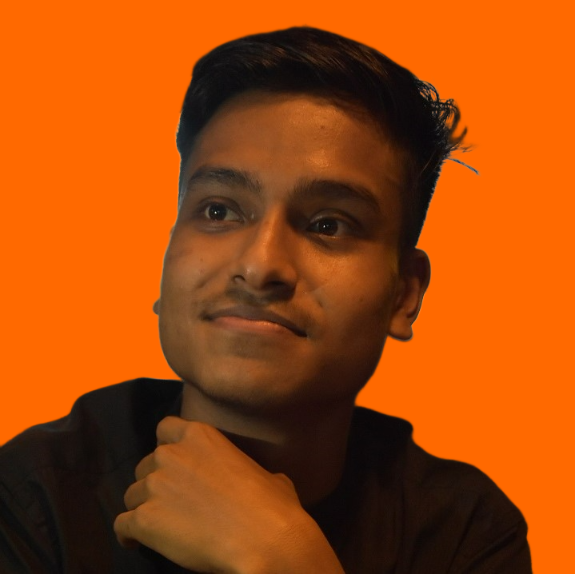
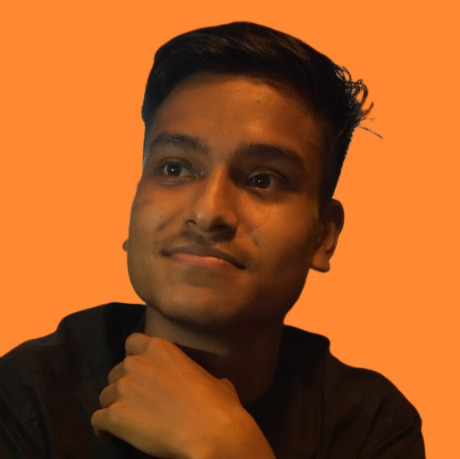
primary color changed

diff --git a/src/index.js b/src/index.js
@@ -1,86 +1,15 @@
-import React from "react";
-import ReactDOM from "react-dom/client";
+import App from "./App";
 import "./index.css";
-// import reportWebVitals from './reportWebVitals';
-import ErrorPage from "./Error";
-import Home from "./Home/Home";
-import About from "./About/About";
-import Education from "./Education/Education";
-import CodingProfiles from "./Coding Profiles/CodingProfiles";
-import Projects from "./Projects/Projects";
-import Contact from "./Contact/Contact";
-
-import {
-  createBrowserRouter,
-  RouterProvider
-} from "react-router-dom";
-import Layout from "./Layout/Layout";
-// import { AnimatePresence } from "framer-motion";
-
-const router = createBrowserRouter([
-  {
-    path: "/" || "/home",
-    element: (
-      <>
-        <Layout />
-        <Home />
-      </>
-    ),
-    errorElement: <ErrorPage />,
-  },
-
-  {
-    path: "/about",
-    element: (
-      <>
-        <Layout />
-        <About />
-      </>
-    ),
-  },
-  {
-    path: "/education",
-    element: (
-      <>
-        <Layout />
-        <Education />
-      </>
-    ),
-  },
-  {
-    path: "/projects",
-    element: (
-      <>
-        <Layout />
-        <Projects />
-      </>
-    ),
-  },
-  {
-    path: "/coding-profiles",
-    element: (
-      <>
-        <Layout />
-        <CodingProfiles />
-      </>
-    ),
-  },
-  {
-    path: "/contact",
-    element: (
-      <>
-        <Layout />
-        <Contact />
-      </>
-    ),
-  },
-]);
-
+import React from "react";
+import ReactDOM from "react-dom";
+import { BrowserRouter as Router } from "react-router-dom";
 
 const root = ReactDOM.createRoot(document.getElementById("root"));
 root.render(
   <React.StrictMode>
-    <RouterProvider router={router} />
+    <Router>
+      <App />
+    </Router>
   </React.StrictMode>
 );
 

diff --git a/src/App.js b/src/App.js
@@ -1,0 +1,76 @@
+// App.js
+import React from "react";
+import { Routes, Route } from "react-router-dom";
+import { AnimatePresence } from "framer-motion";
+import Layout from "./Layout/Layout";
+import Home from "./Home/Home";
+import About from "./About/About";
+import Education from "./Education/Education";
+import Projects from "./Projects/Projects";
+import CodingProfiles from "./Coding Profiles/CodingProfiles";
+import Contact from "./Contact/Contact";
+
+const App = () => {
+  return (
+    <Routes>
+      <Route
+        path="/"
+        element={
+          <>
+            <Layout />
+            <Home />
+          </>
+        }
+      />
+      <Route
+        path="/about"
+        element={
+          <>
+            <AnimatePresence>
+              <Layout />
+              <About />
+            </AnimatePresence>
+          </>
+        }
+      />
+      <Route
+        path="/education"
+        element={
+          <>
+            <Layout />
+            <Education />
+          </>
+        }
+      />
+      <Route
+        path="/projects"
+        element={
+          <>
+            <Layout />
+            <Projects />
+          </>
+        }
+      />
+      <Route
+        path="/coding-profiles"
+        element={
+          <>
+            <Layout />
+            <CodingProfiles />
+          </>
+        }
+      />
+      <Route
+        path="/contact"
+        element={
+          <>
+            <Layout />
+            <Contact />
+          </>
+        }
+      />
+    </Routes>
+  );
+};
+
+export default App;

diff --git a/src/Home/Home.css b/src/Home/Home.css
@@ -8,7 +8,7 @@
     border-bottom-left-radius: 60%;
     border: none;
     padding: -2px;
-    box-shadow: 5px 5px 22px 20px #ff6900;
+    box-shadow: 5px 5px 22px 20px var(--primary-color);
 }
 .main-container{
     padding-bottom: 4rem;
@@ -31,7 +31,7 @@
 }
 span{
     font-size: 3rem;
-    color: #ff6900;
+    color: var(--primary-color);
 }
 .primary-btn, .secondary-btn{
     height: 2.5rem;
@@ -44,15 +44,15 @@ span{
     padding: 0 0.8rem;
 }
 .primary-btn{
-    background-color: #ff6900;
+    background-color: var(--primary-color);
     color: white;
     border: none;
     /* border-color: #FFF; */
     
 }
 .secondary-btn{
-    color: #ff6900;
-    border-color: #ff6900;
+    color: var(--primary-color);
+    border-color: var(--primary-color);
 }
 .primary-btn:hover, .secondary-btn:hover{
     transform: scale(1.08);
@@ -67,7 +67,7 @@ h1{
     transition: 0.1s ease;
 }
 .social-icons:hover{
-    color: #ff6900;
+    color: var(--primary-color);
     transform: translateY(-10px);
 }
 .social-div{

diff --git a/public/index.html b/public/index.html
@@ -24,7 +24,7 @@
       work correctly both with client-side routing and a non-root public URL.
       Learn how to configure a non-root public URL by running `npm run build`.
     -->
-    <title>React App</title>
+    <title>SBPortfolio</title>
   </head>
   <body>
     <noscript>You need to enable JavaScript to run this app.</noscript>

diff --git a/src/Layout/Layout.css b/src/Layout/Layout.css
@@ -33,7 +33,7 @@
     font-size: 1.1rem;
 }
 .active{
-    color: #ff6900;
+    color: var(--primary-color);
 }
 .hamburger-icon{
     display: none;

diff --git a/src/index.css b/src/index.css
@@ -12,7 +12,9 @@ body {
   min-height: 100vh;
   color: white;
 }
-
+:root{
+  --primary-color: #ff8833;
+}
 .container {
   padding: 0 11rem;
 }
